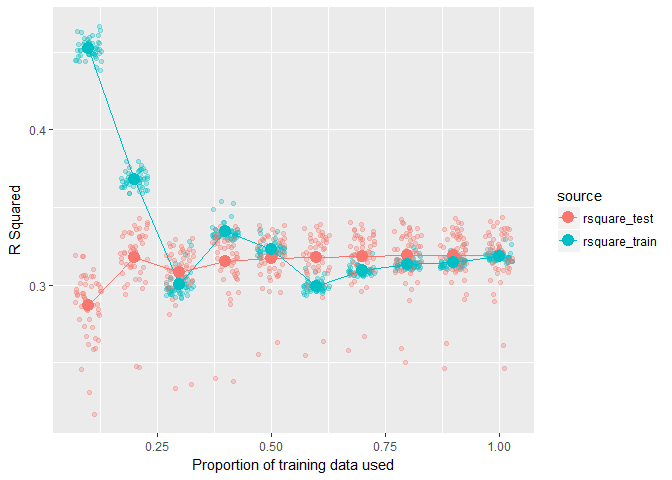
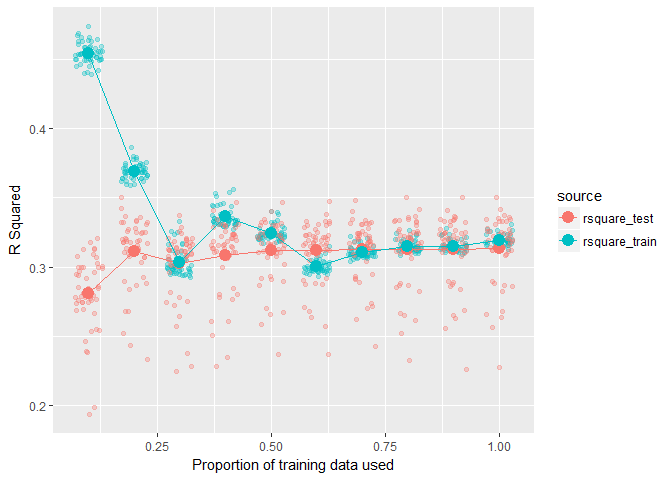
General updates to README

diff --git a/README.md b/README.md
@@ -90,7 +90,7 @@ pl
 -   `data` is split into a single cross-validation pair of resample objects (under `cv_pairs`) referencing 80% of the data for training and 20% for testing.
 -   Learning is done on the entire proportion of the training data (`train_ps == 1`).
 
-When we've setup these elements as desired, use `learn()` to fit all models to every combination of training proportions (`train_ps`) and set of training data in the cross-validation pairs (`cv_pairs`), and return a tibble of the results.
+When these elements as setup as desired, use `learn()` to fit all models to every combination of training proportions (`train_ps`) and set of training data in the cross-validation pairs (`cv_pairs`), and return a tibble of the results.
 
 ``` r
 pl %>% learn()
@@ -103,9 +103,9 @@ pl %>% learn()
 
 Quick notes:
 
--   `fit` contains our fitted model.
--   `train` contains a resample object referencing the data that model was fitted to.
--   `test` contains a resample object referencing test data that our model was *not* fitted to (for later use).
+-   `fit` contains the fitted models.
+-   `train` contains a resample object referencing the data that each model was fitted to.
+-   `test` contains a resample object referencing test data that models were *not* fitted to (for later use).
 
 Cross-validation pairs
 ----------------------
@@ -127,7 +127,7 @@ pl %>%
 #> # ... with 2 more variables: train <list>, test <list>
 ```
 
-Notice the five rows where the model has been fitted to training data for each fold, represented by `cv_pairs.id`.
+Notice the five rows where the model has been fitted to training data for each fold, represented by `cv_pairs.id`. The precise training data sets are also stored under `train`.
 
 Learning curves
 ---------------
@@ -147,12 +147,12 @@ pl %>%
 #> # ... with 2 more variables: train <list>, test <list>
 ```
 
-Notice the three rows where the model has been fitted to the three proportions of the training data, represented by `train_p`.
+Notice the three rows where the model has been fitted to the three proportions of the training data, represented by `train_p`. Again, `train` contains references to the exact training data used in each case.
 
 More models
 -----------
 
-We can add many models with `learn_models()`, which, unlike the previous functions, we can use many times. For example, the following adds a decision tree to be fitted:
+Add more models with `learn_models()`. For example, the following adds a decision tree to be fitted:
 
 ``` r
 pl %>% 
@@ -166,13 +166,15 @@ pl %>%
 #> # ... with 3 more variables: params <list>, train <list>, test <list>
 ```
 
-Notice two rows where the regression and decision tree models have been fit to the training data, represented by `models.id`.
+Notice two rows where the regression and decision tree models have been fit to the training data, represented by `models.id`. The different model calls also appear under `model`.
 
-Two things to know about `learn_models()`:
+Things to know about `learn_models()`:
 
--   When arguments beyond a data frame are supplied to `pipelearner()`, such as `lm` and the formula above, these are used by `learn_models()`. This makes calls like `pipelearner(d, l, f, ...)` the same as `pipelearner(d) %>% learn_models(l, f, ...)`. `learn_models()` is very flexible. It will take a pipelearner object followed by a vector of model functions, a vector of formulas, and vector of any additional hyperparameters. When vectors are provided, all combinations are expanded, making it easy to do things like compare many models with the same formulas, compare many different formulas, or do grid-search.
+-   It can be called multiple times within the pipeline (unlike the other `learn_*()` functions).
+-   It is called implicitly by `pipelearner()` when arguments beyond a data frame are supplied. For example, `pipelearner(d, l, f, ...)` is equivalent to `pipelearner(d) %>% learn_models(l, f, ...)`.
+-   Its arguments can all be vectors, which will be expanded to all combinations. This making it easy to do things like compare many models with the same formulas, compare many different formulas, or do grid-search.
 
-For example, the following compares linear regression and a decision tree over different formulas:
+For example, the following fits two models with three formulas:
 
 ``` r
 pipelearner(iris) %>%
@@ -194,7 +196,7 @@ pipelearner(iris) %>%
 #> #   test <list>
 ```
 
-The following tests a regression model and grid-searches hyperparameters of a decision tree:
+The following fits a regression model and grid-searches hyperparameters of a decision tree:
 
 ``` r
 pipelearner(iris) %>%
@@ -213,12 +215,12 @@ pipelearner(iris) %>%
 #> # ... with 3 more variables: params <list>, train <list>, test <list>
 ```
 
-Brining it all together
------------------------
+Bringing it all together
+------------------------
 
-All of the functions can be combined. For example, the following will:
+All of the functions can be combined into a single pipeline. For example, the following will:
 
--   Create 50 cross-validation pairs (holding out random 20% of data in each)
+-   Create 50 cross-validation pairs (holding out random 20% of data by default in each).
 -   To each be fitted in proportions of .5 to 1 in increments of .1.
 -   With a regression modelling all interactions, and a decision tree modelling all features.
 
@@ -255,7 +257,7 @@ At present, pipelearner doesn't provide functions to extract any further informa
 
 The following will demonstrate an example of visualising learning curves by extracting performance information from regression models.
 
-We'll use the following function `r_square()`, modelled after `modelr::rsquare`, but adjusted to handle new data sets (I've submitted an issue to incorporate into `modelr`).
+`r_square()` is setup to extract an R-squared value. It is based on `modelr::rsquare`, but adjusted to handle new data sets (I've submitted an issue to incorporate into `modelr`).
 
 ``` r
 # R-Squared scoring (because modelr rsquare doen't work right now)
@@ -300,7 +302,7 @@ results
 #> # ... with 490 more rows, and 2 more variables: train <list>, test <list>
 ```
 
-We'll add new columns (with `dplyr::mutate`) containing the rsquared values for each set of training and test data by using `purrr` functions.
+New columns are added with `dplyr::mutate` containing the rsquared values for each set of training and test data by using `purrr` functions.
 
 ``` r
 library(purrr)
@@ -316,16 +318,16 @@ results %>% select(cv_pairs.id, train_p, contains("rsquare"))
 #> # A tibble: 500 × 4
 #>    cv_pairs.id train_p rsquare_train rsquare_test
 #>          <chr>   <dbl>         <dbl>        <dbl>
-#> 1           01     0.1     0.4486994    0.2873244
-#> 2           01     0.2     0.3637072    0.3195402
-#> 3           01     0.3     0.2969694    0.3096061
-#> 4           01     0.4     0.3320052    0.3176988
-#> 5           01     0.5     0.3217332    0.3191249
-#> 6           01     0.6     0.2982874    0.3199430
-#> 7           01     0.7     0.3093254    0.3202413
-#> 8           01     0.8     0.3142815    0.3217356
-#> 9           01     0.9     0.3151943    0.3220615
-#> 10          01     1.0     0.3179775    0.3223741
+#> 1           01     0.1     0.4733265    0.1986025
+#> 2           01     0.2     0.3859593    0.2336552
+#> 3           01     0.3     0.3326021    0.2244162
+#> 4           01     0.4     0.3560963    0.2348670
+#> 5           01     0.5     0.3379767    0.2589375
+#> 6           01     0.6     0.3120187    0.2572928
+#> 7           01     0.7     0.3184233    0.2621513
+#> 8           01     0.8     0.3234083    0.2524226
+#> 9           01     0.9     0.3237136    0.2557765
+#> 10          01     1.0     0.3270188    0.2561946
 #> # ... with 490 more rows
 ```
 
